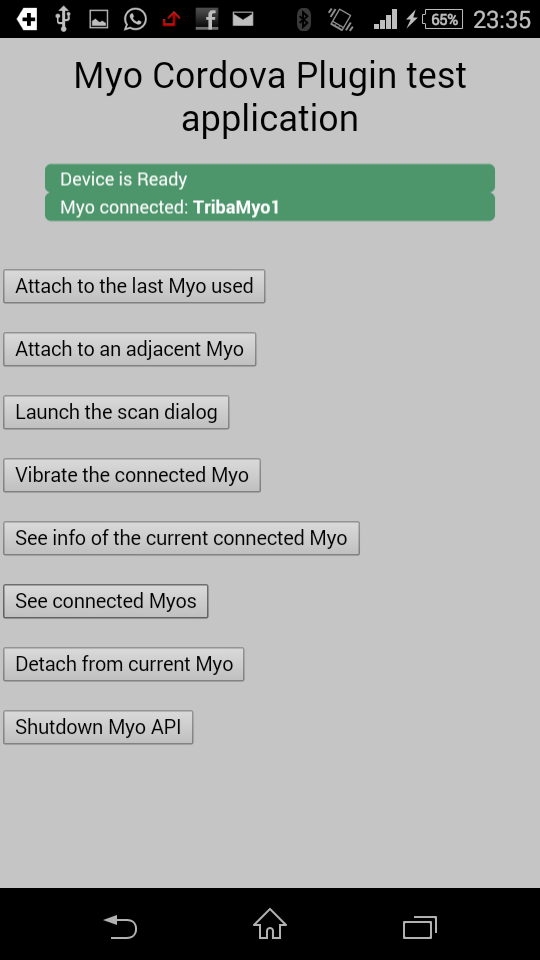
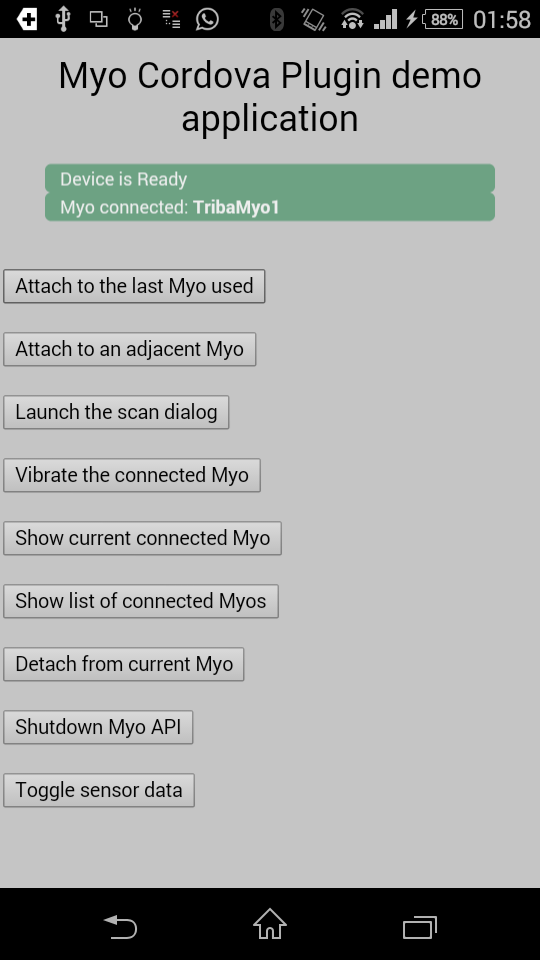
Added sensor data toggle (rotation, accelerometer and gyroscope). Removed alert window when pose is REST. Updated screenshot. Other minor changes.

diff --git a/www/js/index.js b/www/js/index.js
@@ -26,7 +26,7 @@
  * Myo Cordova plugin test application
  */
 
-var myoTests = function(){
+var initMyoDemoApp = function(){
 	if(cordova && cordova.plugins && cordova.plugins.MyoApi){
 		console.log("Myo plugin found!!");
 	}else{
@@ -38,23 +38,28 @@ var myoTests = function(){
 	function docElem(id){
 		return document.getElementById(id);
 	}
-	function setVisible(elem, isVisible){
-		elem.setAttribute("style", (isVisible ? "display:block;" : "display:none;"));
+	function setVisible(elemId, isVisible){
+		docElem(elemId).setAttribute("style", (isVisible ? "display:block;" : "display:none;"));
 	}
-	function showUiState(state){
-		var myoConnecting = docElem("myoConnecting");
-		var myoConnected = docElem("myoConnected");
-		if(state === "connecting"){
-			setVisible(myoConnecting, true);
-			setVisible(myoConnected, false);
-		}else if(state === "connected"){
-			setVisible(myoConnecting, false);
-			setVisible(myoConnected, true);
-		}else if(state === "initial"){
-			setVisible(myoConnected, false);
-			setVisible(myoConnecting, false);
+	var uiElementsIds = ["myoConnecting", "myoConnected", "myoSensorData"];
+	var visibilityMap = {
+		"connecting":		[true, false, false],
+		"connected":		[false, true, false],
+		"initial":			[false, false, false],
+		"sensor data":		[false, false, true]
+	};
+	var prevUiState = null;
+	var currentUiState = null;
+	function showUiState(stateId){
+		var visibilityConf = visibilityMap[stateId];
+		if(visibilityConf){
+			for(var i = 0; i < uiElementsIds.length; ++i){
+				setVisible(uiElementsIds[i], visibilityConf[i]);
+			}
+			prevUiState = currentUiState;
+			currentUiState = stateId;
 		}else{
-			console.log("ERROR: unkown UI state: " + state);
+			console.log("ERROR: unkown UI state: " + stateId);
 		}
 	};
 
@@ -85,7 +90,9 @@ var myoTests = function(){
 	}
 	function alertMyoPose(ev){
 		logMyoEvent(ev);
-		window.alert("Pose detected: " + ev.pose);
+		if(ev.pose !== MyoApi.Pose.REST){
+			window.alert("Pose detected: " + ev.pose);
+		}
 	}
 
 	initApi();
@@ -141,9 +148,6 @@ var myoTests = function(){
 	.on("pose", alertMyoPose, function(err){
 		console.log("ERROR: onPose: " + err);
 	})
-	//.on("orientationData", logMyoEvent)
-	//.on("accelerometerData", logMyoEvent)
-	//.on("gyroscopeData", logMyoEvent)
 	.on("rssi", logMyoEvent);
 
 	docElem("btnAttachLast").onclick = function(){
@@ -231,6 +235,56 @@ var myoTests = function(){
 		showUiState("initial");
 	};
 
+	function createSensorDataHandler(txtElemId, eventDataField, isQuaternion){
+		var NUM_PREC = 3;
+		var txtElement = docElem(txtElemId);
+		var prevTimestamp = null;
+		return function(ev){
+			var d = ev[eventDataField];
+			var txt = "X: " + d.x.toFixed(NUM_PREC)
+				+ " Y: " + d.y.toFixed(NUM_PREC)
+				+ " Z: " + d.z.toFixed(NUM_PREC);
+			if(isQuaternion){
+				txt += " W: " + d.w.toFixed(NUM_PREC)
+					+ "<br>&nbsp;&nbsp;\\\\\\ Roll: " + d.roll.toFixed(NUM_PREC)
+					+ " Pitch: " + d.pitch.toFixed(NUM_PREC)
+					+ " Yaw: " + d.yaw.toFixed(NUM_PREC);
+			}
+			//Uncomment to see timing info
+			/*if(prevTimestamp){
+				txt += " deltaMs: " + (ev.timestamp -  prevTimestamp).toFixed(NUM_PREC);
+			}*/
+			txtElement.innerHTML = txt;
+			prevTimestamp = ev.timestamp;
+		};
+	}
+
+	var isSensorMode = false;
+	docElem("btnSensorMode").onclick = function(){
+		console.log("Clicked on sensor mode button. Is sensor mode? " + isSensorMode);
+		if(!isSensorMode){
+			if(myMyo){
+				MyoApi
+				.on("orientationData", createSensorDataHandler("sensOrientationData", "rotation", true))
+				.on("accelerometerData", createSensorDataHandler("sensAccelerometerData", "accel"))
+				.on("gyroscopeData", createSensorDataHandler("sensGyroscopeData", "gyro"));
+				showUiState("sensor data");
+				isSensorMode = true;
+			}else{
+				window.alert("No Myo currently attached");
+			}
+		}else{
+			MyoApi
+			.off("orientationData")
+			.off("accelerometerData")
+			.off("gyroscopeData");
+			showUiState(prevUiState ? prevUiState : "initial");
+			isSensorMode = false;
+		}
+	};
+
+	showUiState("initial");
+
 };
 
 document.addEventListener('deviceready', function(){
@@ -239,6 +293,5 @@ document.addEventListener('deviceready', function(){
 	var receivedElement = parentElement.querySelector('.received');
 	listeningElement.setAttribute('style', 'display:none;');
 	receivedElement.setAttribute('style', 'display:block;');
-	myoTests();
+	initMyoDemoApp();
 }, false);
-

diff --git a/www/index.html b/www/index.html
@@ -11,14 +11,20 @@
         <title>Hello World</title>
     </head>
     <body>
-		<h1>Myo Cordova Plugin test application</h1>
+		<h1>Myo Cordova Plugin demo application</h1>
 		<div id="deviceready" class="blink">
 			<p class="event listening">Connecting to Device</p>
 			<p class="event received">Device is Ready</p>
 			<p id="myoConnecting" class="event received hidden">Connecting to Myo...</p>
 			<p id="myoConnected" class="event received hidden">Myo connected: <b id="myoName"></b></p>
 		</div>
-		<br><br>
+		<br>
+		<div id="myoSensorData" class="margin-left hidden">
+			orientationData &gt; <span id="sensOrientationData"></span><br>
+			accelerometerData &gt; <span id="sensAccelerometerData"></span><br>
+			gyroscopeData &gt; <span id="sensGyroscopeData"></span>
+		</div>
+		<br>
 		<button id="btnAttachLast">Attach to the last Myo used</button>
 		<br><br>
 		<button id="btnAttachClosest">Attach to an adjacent Myo</button>
@@ -27,13 +33,15 @@
 		<br><br>
 		<button id="btnVibrateMyo">Vibrate the connected Myo</button>
 		<br><br>
-		<button id="btnShowMyo">See info of the current connected Myo</button>
+		<button id="btnShowMyo">Show current connected Myo</button>
 		<br><br>
-		<button id="btnListDevices">See connected Myos</button>
+		<button id="btnListDevices">Show list of connected Myos</button>
 		<br><br>
 		<button id="btnDetach">Detach from current Myo</button>
 		<br><br>
 		<button id="btnShutdown">Shutdown Myo API</button>
+		<br><br>
+		<button id="btnSensorMode">Toggle sensor data</button>
         <script type="text/javascript" src="cordova.js"></script>
         <script type="text/javascript" src="js/index.js"></script>
     </body>

diff --git a/www/css/index.css b/www/css/index.css
@@ -120,3 +120,7 @@ h1 {
 .hidden{
 	display: none;
 }
+
+.margin-left{
+	margin-left: 20px;
+}
